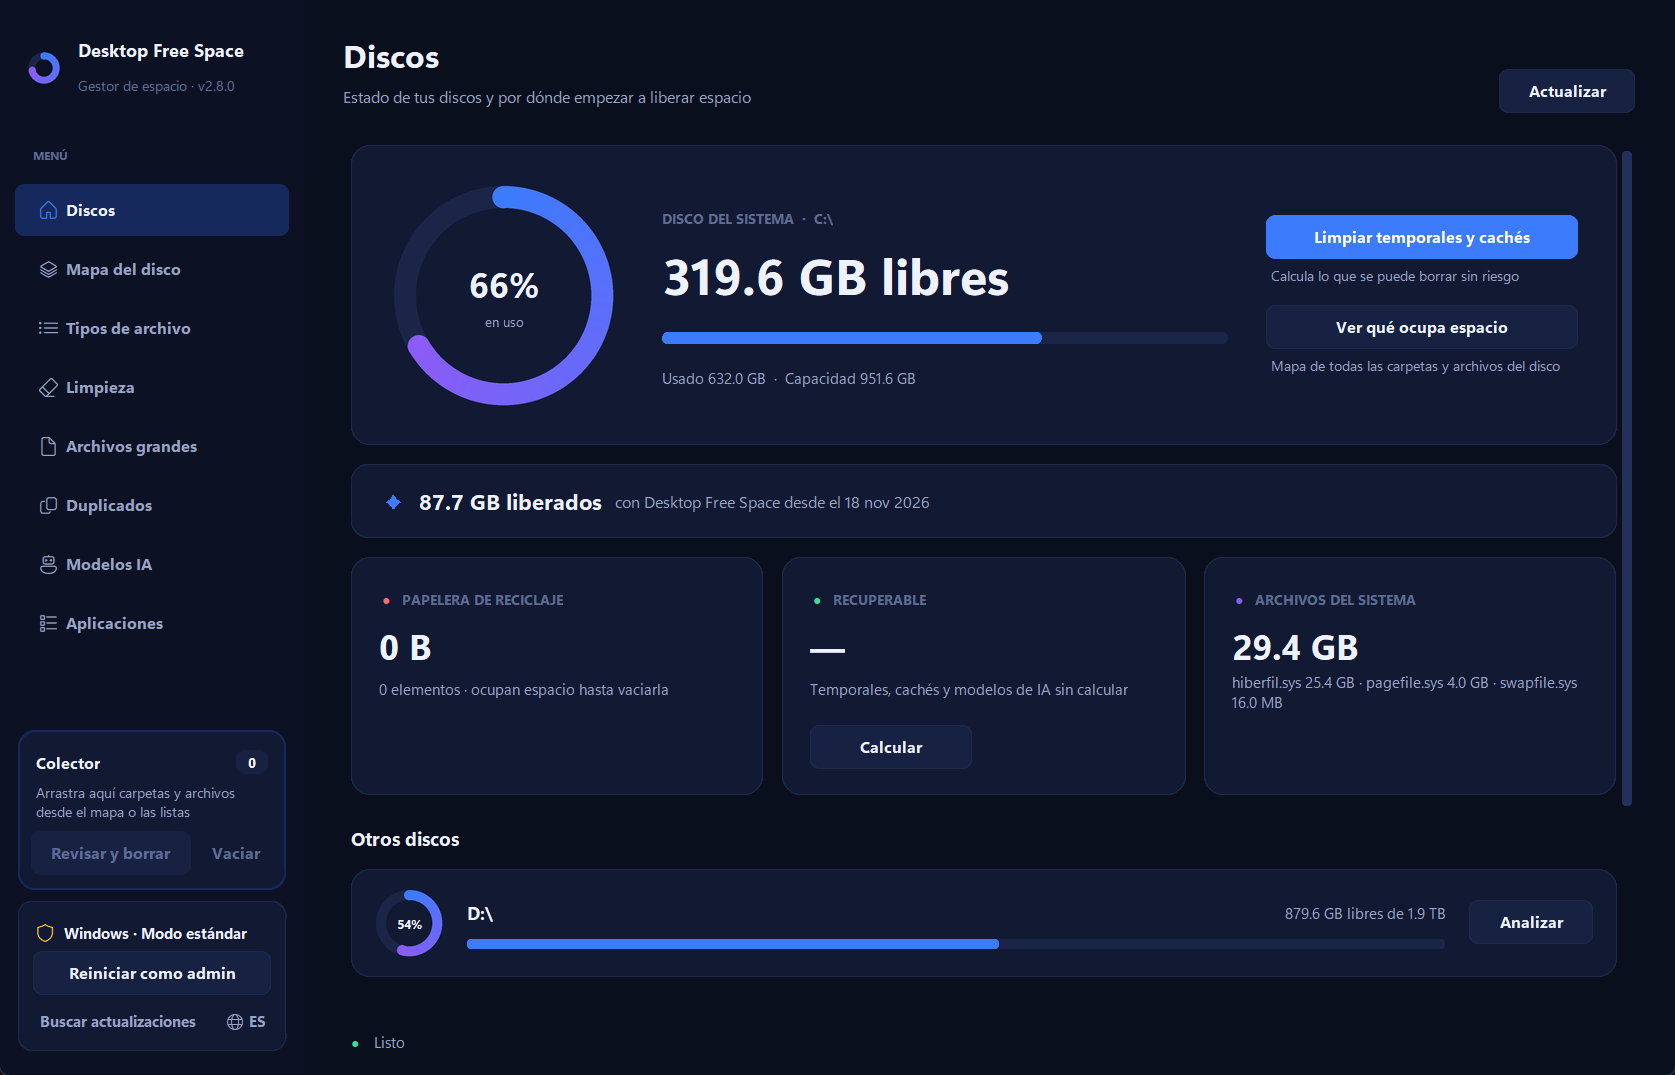
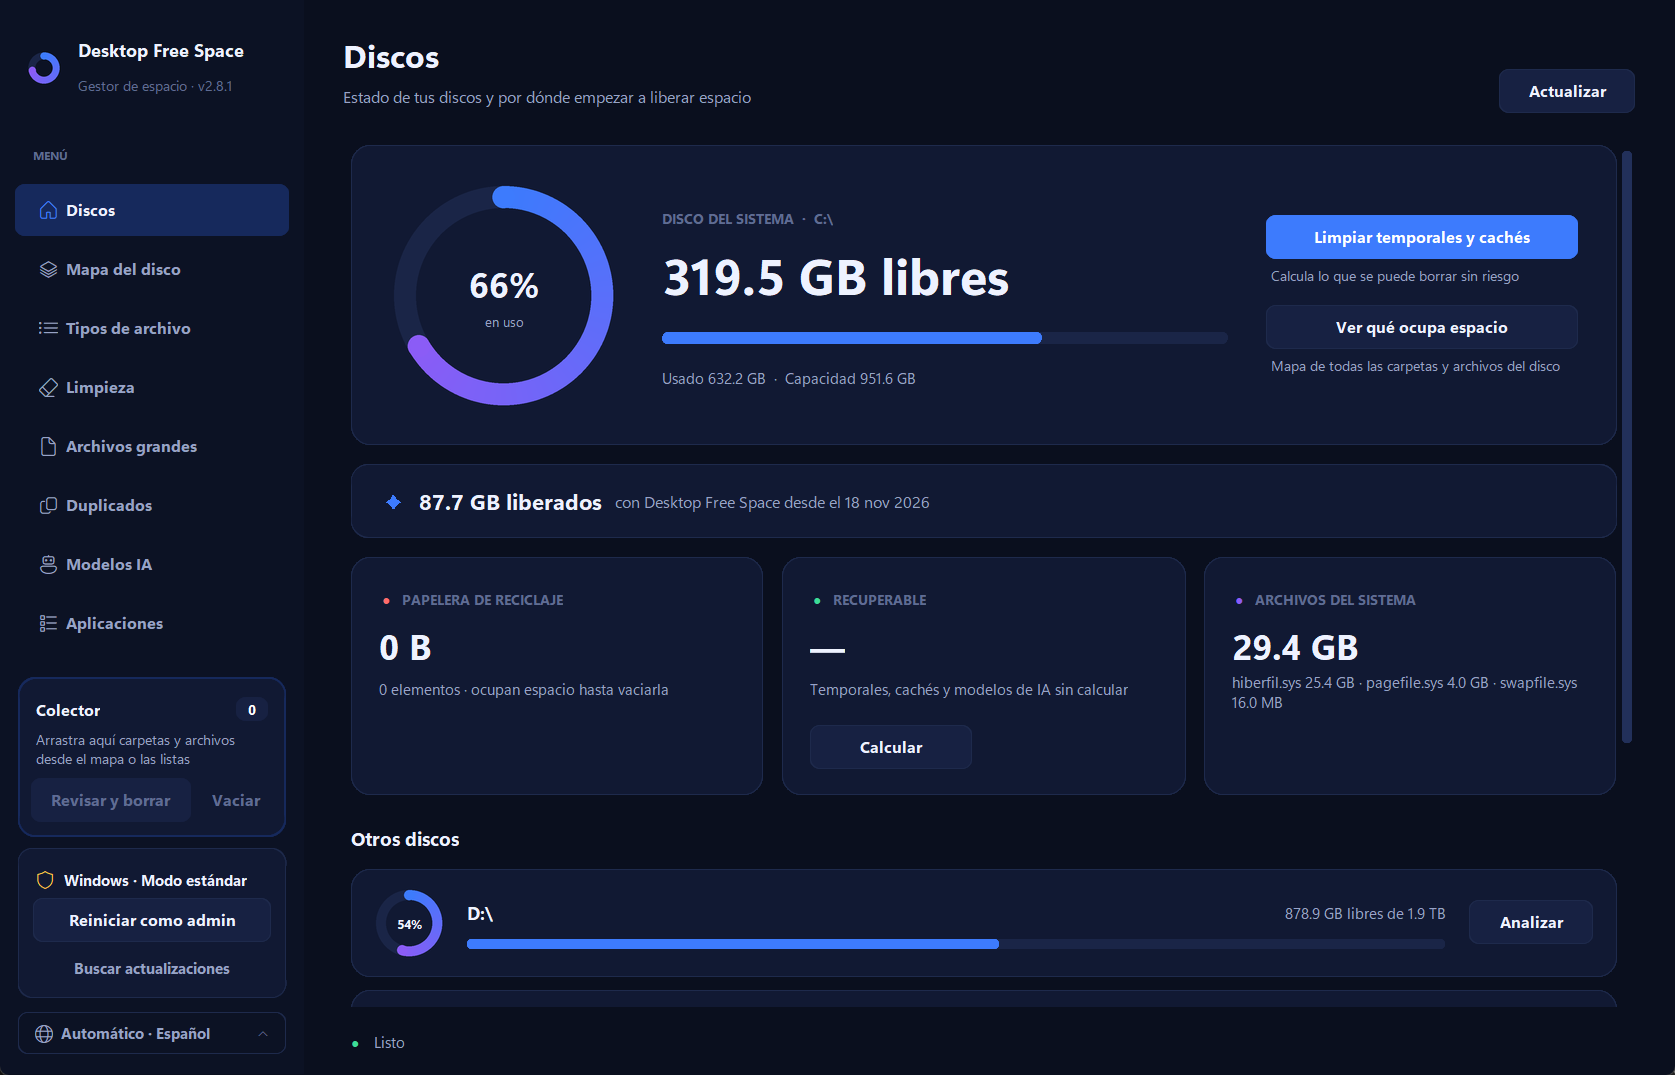
v2.8.1: Language selector at the bottom of the sidebar, Automatic by default
- New full-width selector under the system card (globe, current language, chevron);
  the menu opens upwards with "Automatic" (follows the system language) plus the
  7 languages. Automatic is the default.
- Picking the language already shown only saves the choice; otherwise it asks in the
  new language and restarts the app.
- PopupMenu can open above its anchor; the small language button left the system card.
- README updated; screenshots regenerated for v2.8.1.

Changed region(s): [[0.0, 0.6447, 0.1863, 0.9823], [0.9624, 0.706, 0.9934, 0.7367], [0.4346, 0.2456, 0.4657, 0.2763]]

diff --git a/app/main.py b/app/main.py
@@ -23,7 +23,7 @@ import i18n  # noqa: E402
 from i18n import T, num, date_text  # noqa: E402,F401
 
 APP_NAME = "Desktop Free Space"
-VERSION = "2.8.0"
+VERSION = "2.8.1"
 
 # ---------------------------------------------------------------------------
 # Sistema visual
@@ -307,7 +307,8 @@ class PopupMenu(tk.Toplevel):
 
     current: "PopupMenu | None" = None
 
-    def __init__(self, master, items, x, y, title="", subtitle="", min_width=0):
+    def __init__(self, master, items, x, y, title="", subtitle="", min_width=0, above=False):
+        self.above = above
         if PopupMenu.current is not None:
             PopupMenu.current.close()
         super().__init__(master)
@@ -386,7 +387,10 @@ class PopupMenu(tk.Toplevel):
         w, h = self.winfo_reqwidth(), self.winfo_reqheight()
         left, top, right, bottom = _work_area(x, y, self)
         nx = x + 2 if x + 2 + w <= right else max(left, x - w - 2)
-        ny = y + 2 if y + 2 + h <= bottom else max(top, y - h - 2)
+        if self.above:
+            ny = y - h - 4 if y - h - 4 >= top else min(y + 2, bottom - h)
+        else:
+            ny = y + 2 if y + 2 + h <= bottom else max(top, y - h - 2)
         self.geometry(f"+{nx}+{ny}")
         try:
             self.attributes("-alpha", 0.0)
@@ -2222,9 +2226,32 @@ class App(ctk.CTk):
             ic.bind("<Enter>", lambda e, b=b: b._on_enter(), add="+")  # el botón no pierde su resaltado
             ic.bind("<Leave>", lambda e, b=b: b._on_leave(), add="+")
             self.nav[key] = (b, ic)
+        # selector de idioma: lo último de la barra lateral
+        self.lang_btn = ctk.CTkButton(side, text="", command=self._lang_menu, height=34, corner_radius=8, anchor="w",
+                                      font=F(12, "bold"), fg_color="transparent", hover_color=C["hover"],
+                                      text_color=C["muted"], border_width=1, border_color=C["border"])
+        self.lang_btn.pack(side="bottom", fill="x", padx=14, pady=(0, 16))
+        lb = self.lang_btn
+        g1 = ctk.CTkLabel(lb, text=icon("globe"), font=IF(14), text_color=C["muted"], width=18, height=18)
+        g1.place(x=12, rely=0.5, anchor="w")
+        g2 = ctk.CTkLabel(lb, text="\uE70E" if ICON_FONT else "⌃", font=IF(10), text_color=C["faint"], width=14,
+                          height=18)
+        g2.place(relx=1.0, x=-12, rely=0.5, anchor="e")
+        for w in (g1, g2):
+            w.bind("<Button-1>", lambda e: self._lang_menu())
+            w.bind("<Enter>", lambda e: lb._on_enter(), add="+")
+            w.bind("<Leave>", lambda e: lb._on_leave(), add="+")
+        for w in (lb, g1, g2):  # los iconos siguen el fondo del botón
+            w.bind("<Enter>", lambda e: [x.configure(fg_color=C["hover"]) for x in (g1, g2)], add="+")
+            w.bind("<Leave>", lambda e: [x.configure(fg_color=C["side"]) for x in (g1, g2)], add="+")
+        for x in (g1, g2):
+            x.configure(fg_color=C["side"])
+        self._lang_text()
+        g1.lift()
+        g2.lift()  # por encima del texto del botón
         # tarjeta de permisos / sistema
         adm = ctk.CTkFrame(side, fg_color=C["surface"], corner_radius=12, border_width=1, border_color=C["border"])
-        adm.pack(side="bottom", fill="x", padx=14, pady=(8, 18))
+        adm.pack(side="bottom", fill="x", padx=14, pady=(8, 10))
         is_admin = core.is_admin()
         hdr = ctk.CTkFrame(adm, fg_color="transparent")
         hdr.pack(fill="x", padx=14, pady=(12, 0))
@@ -2245,30 +2272,16 @@ class App(ctk.CTk):
         if core.IS_WIN and not is_admin:
             restart = btn(adm, T("Reiniciar como admin"), self._relaunch_admin, "secondary")
             restart.pack(fill="x", padx=12, pady=(0, 6))
-        upd = ctk.CTkFrame(adm, fg_color="transparent")
-        upd.pack(fill="x", padx=6, pady=(0, 10))
-        ctk.CTkButton(upd, text=T("Buscar actualizaciones"), command=lambda: self._check_updates(manual=True),
-                      height=28, width=40, corner_radius=8, font=F(12, "bold"), **BTN_STYLES["ghost"]
-                      ).pack(side="right", fill="x", expand=True)
-        self.lang_btn = ctk.CTkButton(upd, text="     " + i18n.LANG.upper(), command=self._lang_menu, height=28,
-                                      width=50, corner_radius=8, font=F(12, "bold"), **BTN_STYLES["ghost"])
-        self.lang_btn.pack(side="right", padx=(4, 0), before=upd.winfo_children()[0])
-        gl = ctk.CTkLabel(self.lang_btn, text=icon("globe"), font=IF(13), text_color=C["muted"], width=16,
-                          height=16, fg_color="transparent")
-        gl.place(x=7, rely=0.5, anchor="w")
-        gl.bind("<Button-1>", lambda e: self._lang_menu())
-        gl.bind("<Enter>", lambda e: self.lang_btn._on_enter(), add="+")
-        gl.bind("<Leave>", lambda e: self.lang_btn._on_leave(), add="+")
-        for w in (self.lang_btn, gl):
-            w.bind("<Enter>", lambda e: gl.configure(fg_color=C["hover"]), add="+")
-            w.bind("<Leave>", lambda e: gl.configure(fg_color="transparent"), add="+")
+        upd = ctk.CTkButton(adm, text=T("Buscar actualizaciones"), command=lambda: self._check_updates(manual=True),
+                            height=28, corner_radius=8, font=F(12, "bold"), **BTN_STYLES["ghost"])
+        upd.pack(fill="x", padx=8, pady=(0, 10))
         # en ventanas bajas se ocultan primero el texto y luego «Buscar actualizaciones»
         # Contenido de la tarjeta en orden, y qué se oculta en cada nivel de compactación
         self._adm = adm
         self._adm_items = [(tip_l, dict(anchor="w", padx=14, pady=(4, 12)))]
         if restart is not None:
             self._adm_items.append((restart, dict(fill="x", padx=12, pady=(0, 6))))
-        self._adm_items.append((upd, dict(fill="x", padx=6, pady=(0, 10))))
+        self._adm_items.append((upd, dict(fill="x", padx=8, pady=(0, 10))))
         self._side_hide = [tip_l, upd] + ([restart] if restart is not None else []) + [adm]
         self._side_level = 0
         self._side_job = None
@@ -2350,7 +2363,7 @@ class App(ctk.CTk):
         if self._adm in hidden:
             self._adm.pack_forget()
         elif not self._adm.winfo_manager():
-            self._adm.pack(side="bottom", fill="x", padx=14, pady=(8, 18), before=self.col_frame)
+            self._adm.pack(side="bottom", fill="x", padx=14, pady=(8, 10), before=self.col_frame)
 
     def _fit_side(self):
         """Mantiene el Colector entero en ventanas bajas compactando la tarjeta de sistema."""
@@ -2520,15 +2533,28 @@ class App(ctk.CTk):
         except Exception as e:  # noqa: BLE001
             self.alert(str(e), T("No se pudo abrir"), "error")
 
+    def _lang_text(self):
+        name = dict(i18n.LANGS)[i18n.LANG]
+        txt = T("Automático") + " · " + name if i18n.choice() == "auto" else name
+        self.lang_btn.configure(text="        " + txt)
+
     def _lang_menu(self):
         b = self.lang_btn
-        items = [mi(name, lambda c=code: self._set_lang(c), "check" if code == i18n.LANG else "")
-                 for code, name in i18n.LANGS]
-        PopupMenu(self, items, b.winfo_rootx(), b.winfo_rooty() + b.winfo_height() + 4, title=T("Idioma"),
-                  min_width=200)
+        cur = i18n.choice()
+        sysname = dict(i18n.LANGS)[i18n.system_lang()]
+        items = [mi(T("Automático"), lambda: self._set_lang("auto"), "check" if cur == "auto" else "", sysname), SEP]
+        items += [mi(name, lambda c=code: self._set_lang(c), "check" if code == cur else "")
+                  for code, name in i18n.LANGS]
+        PopupMenu(self, items, b.winfo_rootx(), b.winfo_rooty(), title=T("Idioma"),
+                  min_width=b.winfo_width(), above=True)
 
-    def _set_lang(self, code):
-        if code == i18n.LANG:
+    def _set_lang(self, choice):
+        if choice == i18n.choice():
+            return
+        code = i18n.system_lang() if choice == "auto" else choice
+        if code == i18n.LANG:  # mismo idioma que ya se ve: basta con guardarlo
+            i18n.set_lang(choice)
+            self._lang_text()
             return
         # el aviso sale ya en el idioma elegido
         tt = i18n.texts(code)
@@ -2539,7 +2565,7 @@ class App(ctk.CTk):
                            tt("La app se reiniciará para mostrarse en {lang}.").format(lang=dict(i18n.LANGS)[code]),
                            [(tt("Cancelar"), "secondary", False), (tt("Reiniciar"), "primary", True)]) is True:
             return
-        i18n.set_lang(code)
+        i18n.set_lang(choice)
         if core.relaunch_self():
             self.destroy()
             os._exit(0)

diff --git a/app/i18n.py b/app/i18n.py
@@ -99,6 +99,16 @@ def _load(code: str) -> dict:
 
 _forced = os.environ.get("DFS_LANG", "")  # para pruebas: fuerza un idioma sin tocar los ajustes
 LANG = (_forced if _forced in CODES else "") or saved_lang() or _system_lang() or "en"
+
+
+def system_lang() -> str:
+    """Idioma que se usa en modo automático."""
+    return _system_lang() or "en"
+
+
+def choice() -> str:
+    """Lo elegido por el usuario: un código de idioma o "auto" (sigue al sistema; es lo predeterminado)."""
+    return saved_lang() or "auto"
 _TABLE = _load(LANG)
 
 
@@ -147,7 +157,7 @@ def date_text(y: int, m: int, d: int) -> str:
 
 
 def set_lang(code: str) -> None:
-    """Guarda el idioma elegido (se aplica al reiniciar)."""
+    """Guarda el idioma elegido ("auto" = el del sistema). Se aplica al reiniciar."""
     path = _settings_path()
     try:
         with open(path, encoding="utf-8") as fh:

diff --git a/app/locales/fr.py b/app/locales/fr.py
@@ -490,4 +490,5 @@ T = {
     "Cambiar idioma": "Changer de langue",
     "La app se reiniciará para mostrarse en {lang}.": "L’app va redémarrer pour s’afficher en {lang}.",
     "Reiniciar": "Redémarrer",
+    "Automático": "Automatique",
 }

diff --git a/app/locales/de.py b/app/locales/de.py
@@ -490,4 +490,5 @@ T = {
     "Cambiar idioma": "Sprache ändern",
     "La app se reiniciará para mostrarse en {lang}.": "Die App wird neu gestartet und auf {lang} angezeigt.",
     "Reiniciar": "Neu starten",
+    "Automático": "Automatisch",
 }

diff --git a/app/locales/ja.py b/app/locales/ja.py
@@ -490,4 +490,5 @@ T = {
     "Cambiar idioma": "言語を変更",
     "La app se reiniciará para mostrarse en {lang}.": "アプリを再起動して{lang}で表示します。",
     "Reiniciar": "再起動",
+    "Automático": "自動",
 }

diff --git a/app/locales/it.py b/app/locales/it.py
@@ -490,4 +490,5 @@ T = {
     "Cambiar idioma": "Cambia lingua",
     "La app se reiniciará para mostrarse en {lang}.": "L’app si riavvierà per mostrarsi in {lang}.",
     "Reiniciar": "Riavvia",
+    "Automático": "Automatico",
 }

diff --git a/app/locales/zh.py b/app/locales/zh.py
@@ -490,4 +490,5 @@ T = {
     "Cambiar idioma": "更改语言",
     "La app se reiniciará para mostrarse en {lang}.": "应用将重新启动并以{lang}显示。",
     "Reiniciar": "重新启动",
+    "Automático": "自动",
 }

diff --git a/app/locales/en.py b/app/locales/en.py
@@ -490,4 +490,5 @@ T = {
     "Cambiar idioma": "Change language",
     "La app se reiniciará para mostrarse en {lang}.": "The app will restart to show in {lang}.",
     "Reiniciar": "Restart",
+    "Automático": "Automatic",
 }

diff --git a/README.es.md b/README.es.md
@@ -42,7 +42,7 @@ Aplicación de escritorio para **Windows, macOS y Linux**, con interfaz oscura, 
 
 ## ✨ Funcionalidades
 
-**7 idiomas:** Español, English, Français, Deutsch, Italiano, 简体中文 y 日本語. La app usa el idioma del sistema y puedes cambiarlo cuando quieras con el botón 🌐 de la barra lateral.
+**7 idiomas:** Español, English, Français, Deutsch, Italiano, 简体中文 y 日本語. Por defecto sigue el idioma del sistema (**Automático**) y puedes elegir otro cuando quieras con el selector 🌐 al pie de la barra lateral.
 
 ### Discos
 - Espacio libre, usado y total del disco del sistema, con un anillo de uso, y una fila con barra de capacidad para cada uno del resto de discos. **Se actualiza en tiempo real**, sin tener que analizar.

diff --git a/README.md b/README.md
@@ -44,7 +44,7 @@ A dark-themed desktop app for **Windows, macOS and Linux** that draws an interac
 
 ## ✨ Features
 
-**7 languages:** English, Español, Français, Deutsch, Italiano, 简体中文 and 日本語. The app follows your system language; change it any time with the 🌐 button in the sidebar.
+**7 languages:** English, Español, Français, Deutsch, Italiano, 简体中文 and 日本語. By default it follows your system language (**Automatic**); pick another one any time from the 🌐 selector at the bottom of the sidebar.
 
 ### Disks (Discos)
 - Free, used and total space of the system disk with a usage ring, plus a row with a capacity bar for every other disk. **Updates in real time**, no scan needed.
